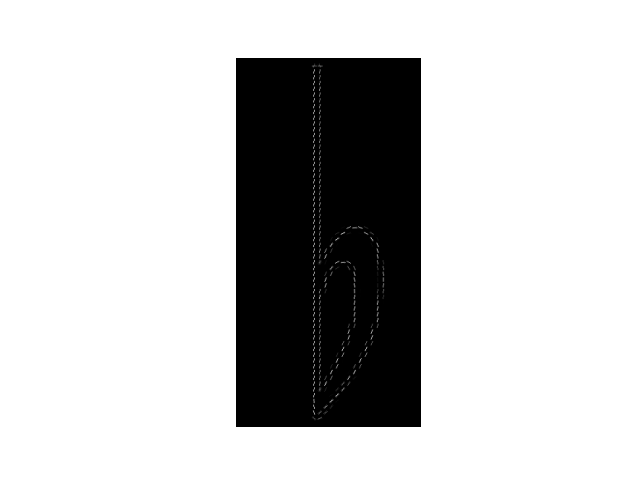
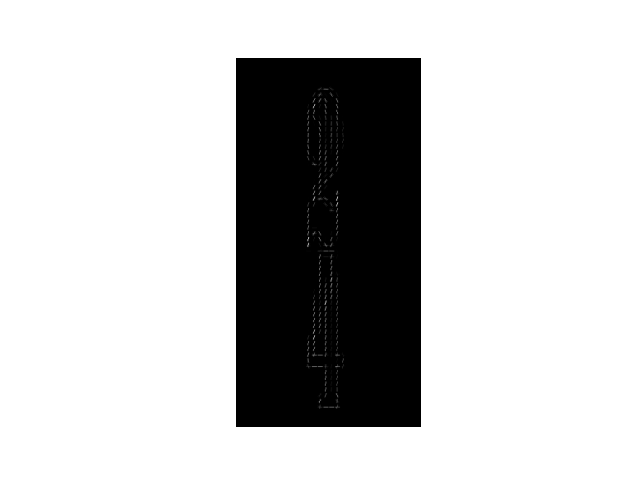
2 - Extracted features from all images in template folder

diff --git a/imageDetection.py b/imageDetection.py
@@ -21,20 +21,24 @@ else:
     print("Error: No image detected")
 """
 directory = "templates"
-count = 1
-img = imread("templates/3_4 time signature.png")
-new_img = resize(img, (128*4, 64*4))
-if len(new_img.shape) == 3:
-    fd, hog_img = hog(new_img, orientations=9, pixels_per_cell=(8,8), cells_per_block=(2,2), visualize=True, channel_axis=-1)
-    plt.axis("off")
-    plt.imshow(hog_img, cmap="gray")
-    plt.savefig("template_features_output/feature {}.png".format(count))
-else:
-    fd, hog_img = hog(new_img, orientations=9, pixels_per_cell=(8,8), cells_per_block=(2,2), visualize=True)
-    plt.axis("off")
-    plt.imshow(hog_img, cmap="gray")
-    plt.savefig("template_features_output/feature {}.png".format(count))
-count += 1
+count = 0
+
+for filename in os.listdir(directory):
+    f = os.path.join(directory, filename)
+    if os.path.isfile(f):
+        img = imread(f)
+        new_img = resize(img, (128*4, 64*4))
+        if len(new_img.shape) == 3:
+            fd, hog_img = hog(new_img, orientations=9, pixels_per_cell=(8,8), cells_per_block=(2,2), visualize=True, channel_axis=-1)
+            plt.axis("off")
+            plt.imshow(hog_img, cmap="gray")
+            plt.savefig("template_features_output/feature {}.png".format(count))
+        else:
+            fd, hog_img = hog(new_img, orientations=9, pixels_per_cell=(8,8), cells_per_block=(2,2), visualize=True)
+            plt.axis("off")
+            plt.imshow(hog_img, cmap="gray")
+            plt.savefig("template_features_output/feature {}.png".format(count))
+        count += 1
 # testing HOG using skimage library
 
 """    
